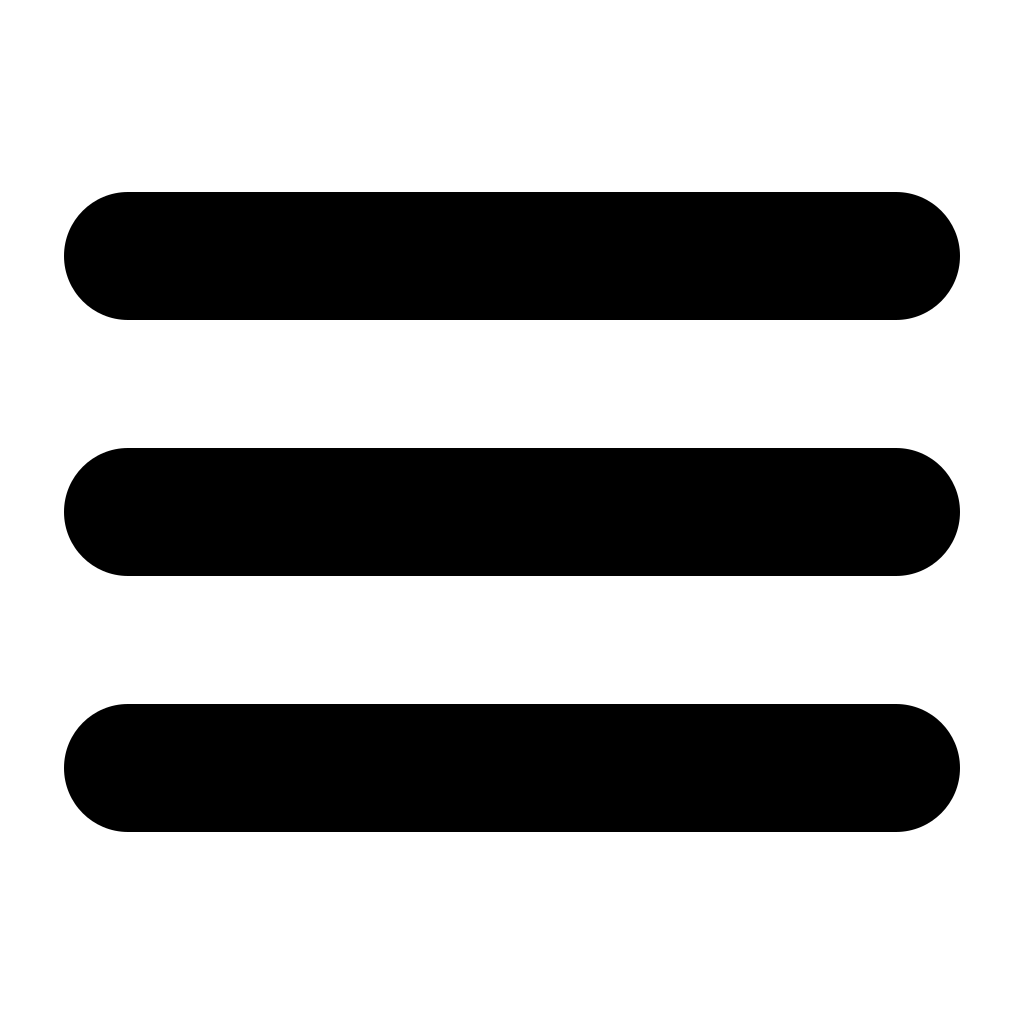
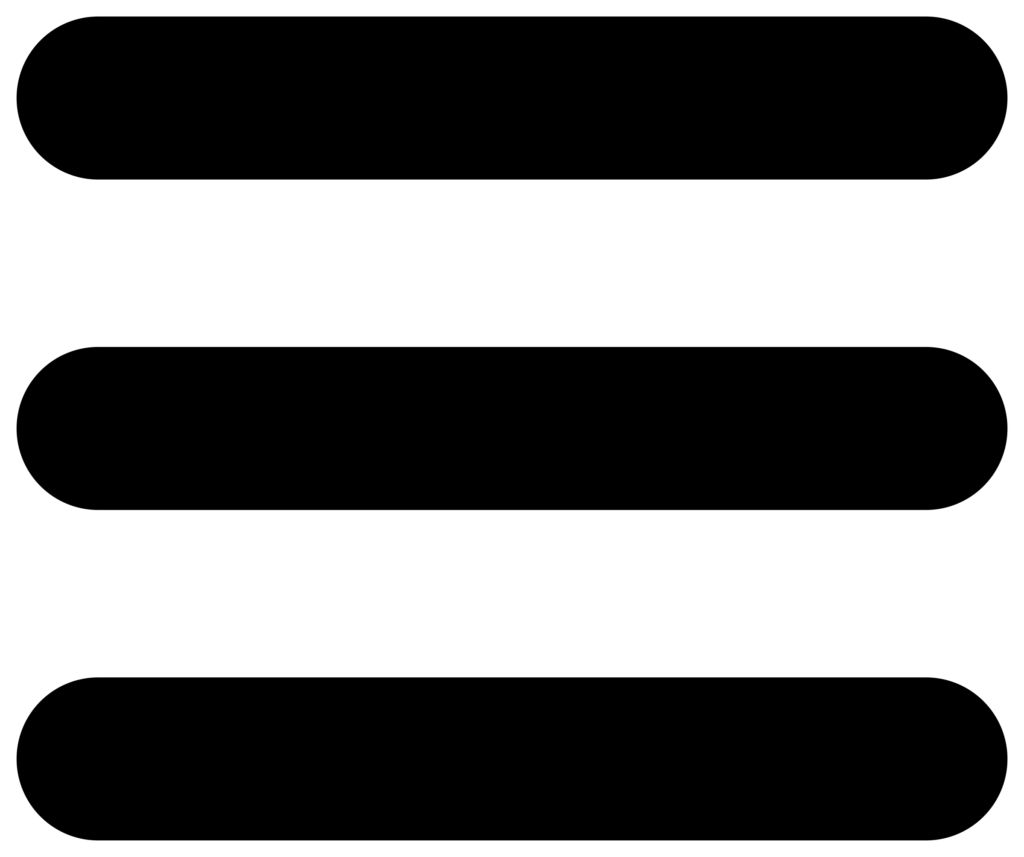
adding responsivity to the the tutorial sidebar

diff --git a/client/components/tutorial/SideBar.tsx b/client/components/tutorial/SideBar.tsx
@@ -3,11 +3,15 @@
 import { TutorialType } from "@type/tutorial";
 
 export default function SideBar({
+    isOpen,
+    isMobile,
     selectedTutorial,
-    setTutorial
+    goTo
 }: {
+    isOpen: boolean,
+    isMobile: boolean,
     selectedTutorial: TutorialType,
-    setTutorial: (tutorial: TutorialType) => void
+    goTo: (tutorial: TutorialType) => void
 }) {
     function itemStyle(tutorial: TutorialType) {
         if (selectedTutorial === tutorial)
@@ -16,16 +20,16 @@ export default function SideBar({
         return "text-[#2d2d2d] px-2 cursor-pointer hover:text-sky-400 hover:font-bold";
     }
 
-    function handleSelection(tutorial: string) {
-        setTutorial(tutorial as TutorialType);
-    }
-
     return (
-        <nav className="h-full bg-slate-100 p-3 flex flex-col gap-6 overflow-auto">
+        <nav className={`h-full bg-slate-100 p-3 flex flex-col gap-6 overflow-auto${
+            isMobile ? ` transition-[left] absolute ${
+                isOpen ? "left-0 duration-500" : "-left-full duration-[1.2s]"
+            }` : ""
+        }`}>
             <p
                 id={TutorialType.INTRODUCAO}
                 className={itemStyle(TutorialType.INTRODUCAO)}
-                onClick={e => handleSelection((e.target as HTMLParagraphElement).id)}
+                onClick={e => goTo((e.target as HTMLParagraphElement).id as TutorialType)}
             >introdução</p>
             <div>
                 <p className="font-bold">Cartas</p>
@@ -33,32 +37,32 @@ export default function SideBar({
                     <li
                         id={TutorialType.ASSASSINO}
                         className={itemStyle(TutorialType.ASSASSINO)}
-                        onClick={e => handleSelection((e.target as HTMLLIElement).id)}
+                        onClick={e => goTo((e.target as HTMLLIElement).id as TutorialType)}
                     >Assassino</li>
                     <li
                         id={TutorialType.CAPITAO}
                         className={itemStyle(TutorialType.CAPITAO)}
-                        onClick={e => handleSelection((e.target as HTMLLIElement).id)}
+                        onClick={e => goTo((e.target as HTMLLIElement).id as TutorialType)}
                     >Capitão</li>
                     <li
                         id={TutorialType.CONDESSA}
                         className={itemStyle(TutorialType.CONDESSA)}
-                        onClick={e => handleSelection((e.target as HTMLLIElement).id)}
+                        onClick={e => goTo((e.target as HTMLLIElement).id as TutorialType)}
                     >Condessa</li>
                     <li
                         id={TutorialType.DUQUE}
                         className={itemStyle(TutorialType.DUQUE)}
-                        onClick={e => handleSelection((e.target as HTMLLIElement).id)}
+                        onClick={e => goTo((e.target as HTMLLIElement).id as TutorialType)}
                     >Duque</li>
                     <li
                         id={TutorialType.EMBAIXADOR}
                         className={itemStyle(TutorialType.EMBAIXADOR)}
-                        onClick={e => handleSelection((e.target as HTMLLIElement).id)}
+                        onClick={e => goTo((e.target as HTMLLIElement).id as TutorialType)}
                     >Embaixador</li>
                     <li
                         id={TutorialType.INQUISIDOR}
                         className={itemStyle(TutorialType.INQUISIDOR)}
-                        onClick={e => handleSelection((e.target as HTMLLIElement).id)}
+                        onClick={e => goTo((e.target as HTMLLIElement).id as TutorialType)}
                     >Inquisidor</li>
                 </ul>
             </div>
@@ -68,17 +72,17 @@ export default function SideBar({
                     <li
                         id={TutorialType.RENDA}
                         className={itemStyle(TutorialType.RENDA)}
-                        onClick={e => handleSelection((e.target as HTMLLIElement).id)}
+                        onClick={e => goTo((e.target as HTMLLIElement).id as TutorialType)}
                     >Renda</li>
                     <li
                         id={TutorialType.AJUDA_EXTERNA}
                         className={itemStyle(TutorialType.AJUDA_EXTERNA)}
-                        onClick={e => handleSelection((e.target as HTMLLIElement).id)}
+                        onClick={e => goTo((e.target as HTMLLIElement).id as TutorialType)}
                     >Ajuda externa</li>
                     <li
                         id={TutorialType.GOLPE_ESTADO}
                         className={itemStyle(TutorialType.GOLPE_ESTADO)}
-                        onClick={e => handleSelection((e.target as HTMLLIElement).id)}
+                        onClick={e => goTo((e.target as HTMLLIElement).id as TutorialType)}
                     >Golpe de estado</li>
                 </ul>
             </div>
@@ -88,27 +92,27 @@ export default function SideBar({
                     <li
                         id={TutorialType.ASSASSINAR}
                         className={itemStyle(TutorialType.ASSASSINAR)}
-                        onClick={e => handleSelection((e.target as HTMLLIElement).id)}
+                        onClick={e => goTo((e.target as HTMLLIElement).id as TutorialType)}
                     >Assassinar</li>
                     <li
                         id={TutorialType.EXTORQUIR}
                         className={itemStyle(TutorialType.EXTORQUIR)}
-                        onClick={e => handleSelection((e.target as HTMLLIElement).id)}
+                        onClick={e => goTo((e.target as HTMLLIElement).id as TutorialType)}
                     >Extorquir</li>
                     <li
                         id={TutorialType.TAXAR}
                         className={itemStyle(TutorialType.TAXAR)}
-                        onClick={e => handleSelection((e.target as HTMLLIElement).id)}
+                        onClick={e => goTo((e.target as HTMLLIElement).id as TutorialType)}
                     >Taxar</li>
                     <li
                         id={TutorialType.TROCAR}
                         className={itemStyle(TutorialType.TROCAR)}
-                        onClick={e => handleSelection((e.target as HTMLLIElement).id)}
+                        onClick={e => goTo((e.target as HTMLLIElement).id as TutorialType)}
                     >Trocar</li>
                     <li
                         id={TutorialType.INVESTIGAR}
                         className={itemStyle(TutorialType.INVESTIGAR)}
-                        onClick={e => handleSelection((e.target as HTMLLIElement).id)}
+                        onClick={e => goTo((e.target as HTMLLIElement).id as TutorialType)}
                     >Investigar</li>
                 </ul>
             </div>
@@ -118,17 +122,17 @@ export default function SideBar({
                     <li
                         id={TutorialType.BLOQUEAR}
                         className={itemStyle(TutorialType.BLOQUEAR)}
-                        onClick={e => handleSelection((e.target as HTMLLIElement).id)}
+                        onClick={e => goTo((e.target as HTMLLIElement).id as TutorialType)}
                     >Bloquear</li>
                     <li
                         id={TutorialType.CONTESTAR}
                         className={itemStyle(TutorialType.CONTESTAR)}
-                        onClick={e => handleSelection((e.target as HTMLLIElement).id)}
+                        onClick={e => goTo((e.target as HTMLLIElement).id as TutorialType)}
                     >Contestar</li>
                     <li
                         id={TutorialType.CONTINUAR}
                         className={itemStyle(TutorialType.CONTINUAR)}
-                        onClick={e => handleSelection((e.target as HTMLLIElement).id)}
+                        onClick={e => goTo((e.target as HTMLLIElement).id as TutorialType)}
                     >Continuar</li>
                 </ul>
             </div>
@@ -138,22 +142,22 @@ export default function SideBar({
                     <li
                         id={TutorialType.RELIGIAO}
                         className={itemStyle(TutorialType.RELIGIAO)}
-                        onClick={e => handleSelection((e.target as HTMLLIElement).id)}
+                        onClick={e => goTo((e.target as HTMLLIElement).id as TutorialType)}
                     >Religião</li>
                     <li
                         id={TutorialType.TROCAR_RELIGIAO}
                         className={itemStyle(TutorialType.TROCAR_RELIGIAO)}
-                        onClick={e => handleSelection((e.target as HTMLLIElement).id)}
+                        onClick={e => goTo((e.target as HTMLLIElement).id as TutorialType)}
                     >Trocar religião</li>
                     <li
                         id={TutorialType.CORRUPCAO}
                         className={itemStyle(TutorialType.CORRUPCAO)}
-                        onClick={e => handleSelection((e.target as HTMLLIElement).id)}
+                        onClick={e => goTo((e.target as HTMLLIElement).id as TutorialType)}
                     >Corrupção</li>
                     <li
                         id={TutorialType.DEVERES}
                         className={itemStyle(TutorialType.DEVERES)}
-                        onClick={e => handleSelection((e.target as HTMLLIElement).id)}
+                        onClick={e => goTo((e.target as HTMLLIElement).id as TutorialType)}
                     >Deveres</li>
                 </ul>
             </div>

diff --git a/client/appPages/Tutorial.tsx b/client/appPages/Tutorial.tsx
@@ -1,21 +1,46 @@
 "use client";
 
-import { useState } from "react";
+import { useEffect, useState } from "react";
 import Header from "@components/tutorial/Header";
 import SideBar from "@components/tutorial/SideBar";
 import SelectedTutorial from "@components/tutorial/SelectedTutorial";
 import { TutorialType } from "@type/tutorial";
+import useDeviceWidth from "@hooks/useDeviceWidth";
 
 export default function Tutorial() {
     const [ selectedTutorial, setTutorial ] = useState<TutorialType>(TutorialType.INTRODUCAO);
+    const [ isOpen, setIsOpen ] = useState<boolean | undefined>(undefined);
+    const isMobileDevice = useDeviceWidth() <= 700;
+
+    useEffect(() => {
+        if (isMobileDevice)
+            setIsOpen(false);
+        else
+            setIsOpen(undefined);
+    }, [isMobileDevice]);
+
+    function goToTutorial(tutorial: TutorialType) {
+        setTutorial(tutorial);
+
+        if (isMobileDevice)
+            setIsOpen(false);
+    }
 
     return (
         <div className="h-screen flex flex-col">
-            <Header />
-            <div className="h-full flex overflow-hidden">
-                <SideBar selectedTutorial={selectedTutorial} setTutorial={setTutorial} />
-                <div className="w-full bg-[#634c2b] p-4">
-                    <SelectedTutorial tutorial={selectedTutorial} />
+            <Header isOpened={isOpen} change={() => setIsOpen(prev => !prev)} />
+            <div className="h-full grid grid-cols-[auto_auto] overflow-hidden relative">
+                <SideBar
+                    isMobile={isMobileDevice}
+                    isOpen={isOpen !== undefined ? isOpen : true}
+                    selectedTutorial={selectedTutorial}
+                    goTo={goToTutorial}
+                />
+                <div className="w-full bg-[#634c2b] p-4 overflow-auto">
+                    <SelectedTutorial
+                        tutorial={selectedTutorial}
+                        goTo={goToTutorial}
+                    />
                 </div>
             </div>
         </div>

diff --git a/client/components/tutorial/Header.tsx b/client/components/tutorial/Header.tsx
@@ -2,12 +2,19 @@
 
 import Image from "next/image";
 import { useRouter } from "next/navigation";
+import HamburgerIcon from "@components/tutorial/HamburgerIcon";
 
-export default function Header() {
+export default function Header({
+    isOpened,
+    change
+}: {
+    isOpened: boolean | undefined,
+    change: () => void
+}) {
     const router = useRouter();
 
     return (
-        <header className="w-full p-3 bg-[#eaaf73]">
+        <header className="w-full p-3 bg-[#eaaf73] flex items-center justify-between">
             <button
                 className="w-fit flex gap-3 items-center"
                 onClick={() => router.push("/")}
@@ -20,6 +27,7 @@ export default function Header() {
                 />
                 Início
             </button>
+            {isOpened !== undefined && <HamburgerIcon isOpened={isOpened} change={change} />}
         </header>
     )
 }

diff --git a/client/components/tutorial/HamburgerIcon.tsx b/client/components/tutorial/HamburgerIcon.tsx
@@ -1,0 +1,30 @@
+import Image from "next/image"
+
+export default function HamburgerIcon({
+  isOpened,
+  change
+}: {
+  isOpened: boolean,
+  change: () => void
+}) {
+  return (
+    <button className="h-[40px] relative">
+      <Image
+        src="/x-icon.png"
+        alt="icone de x"
+        width={40}
+        height={40}
+        className={`${isOpened ? "opacity-100" : "opacity-0"} transition-opacity duration-700 ease-linear`}
+        onClick={change}
+      />
+      <Image
+        src="/menu-hamburguer-icon.png"
+        alt="icone de menu hamburguer"
+        width={40}
+        height={40}
+        className={`${isOpened ? "opacity-0" : "opacity-100"} transition-opacity duration-700 ease-linear absolute top-[3px]`}
+        onClick={change}
+      />
+    </button>
+  )
+}
